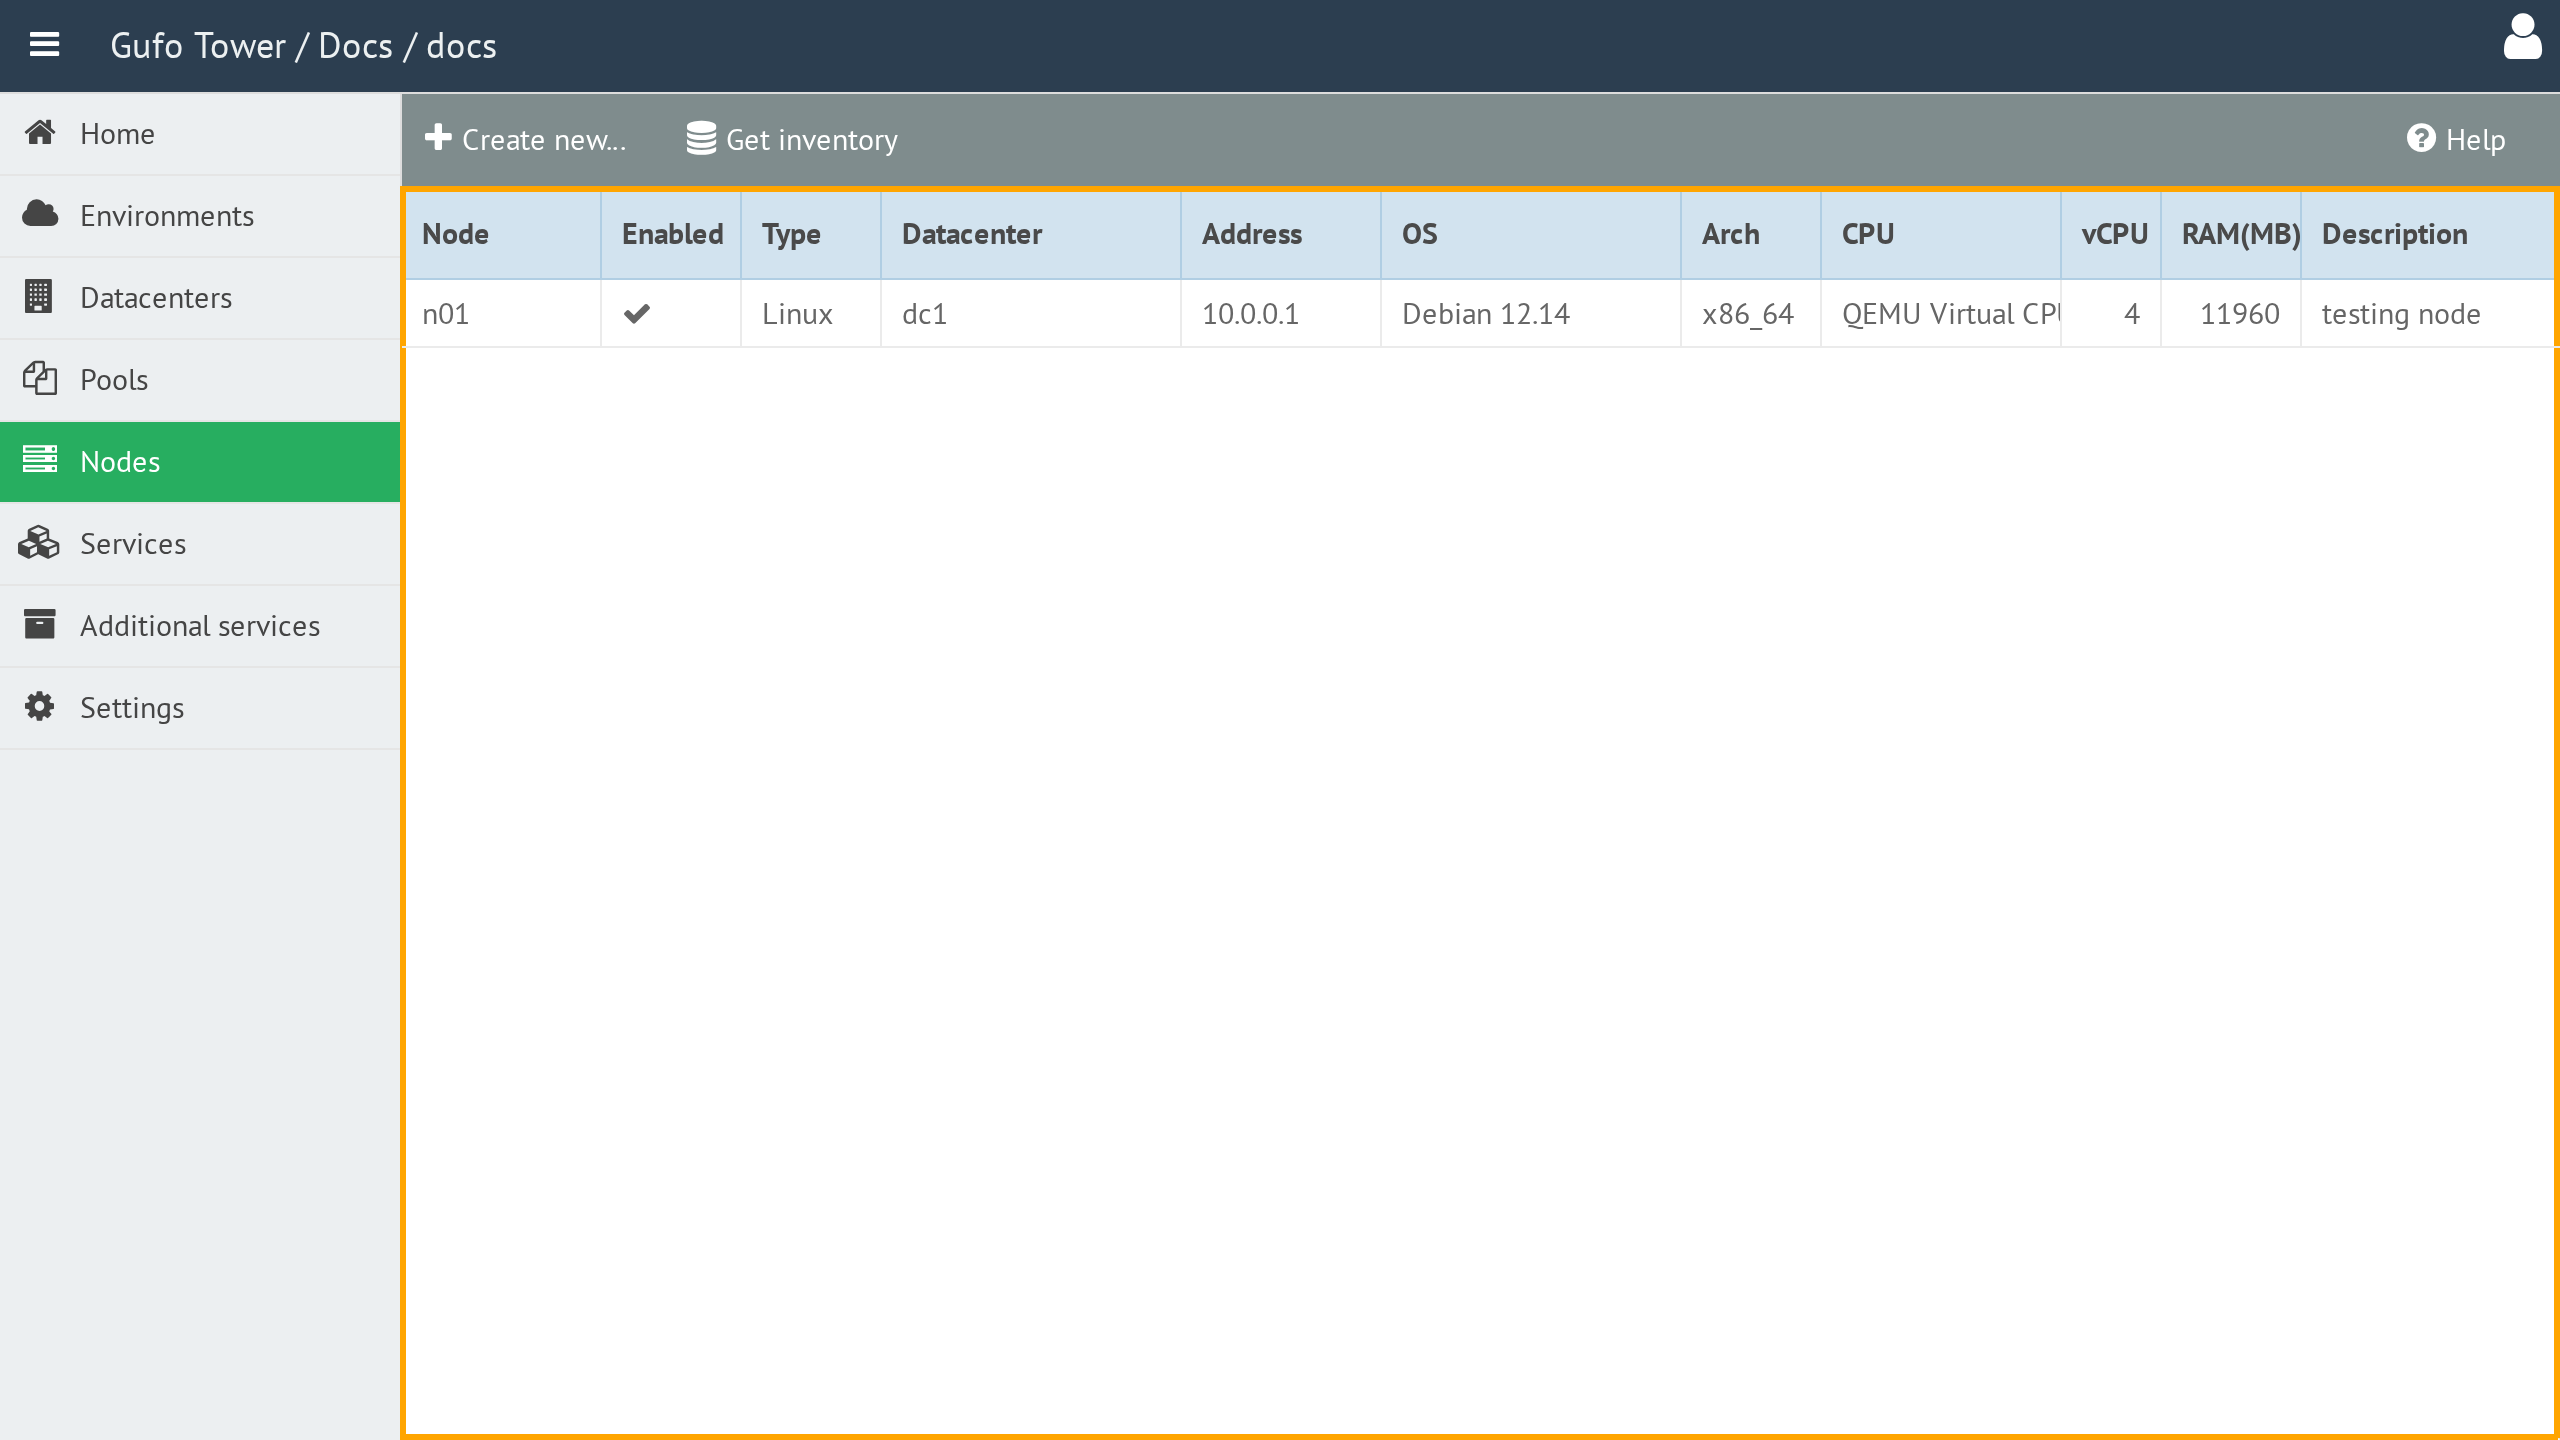
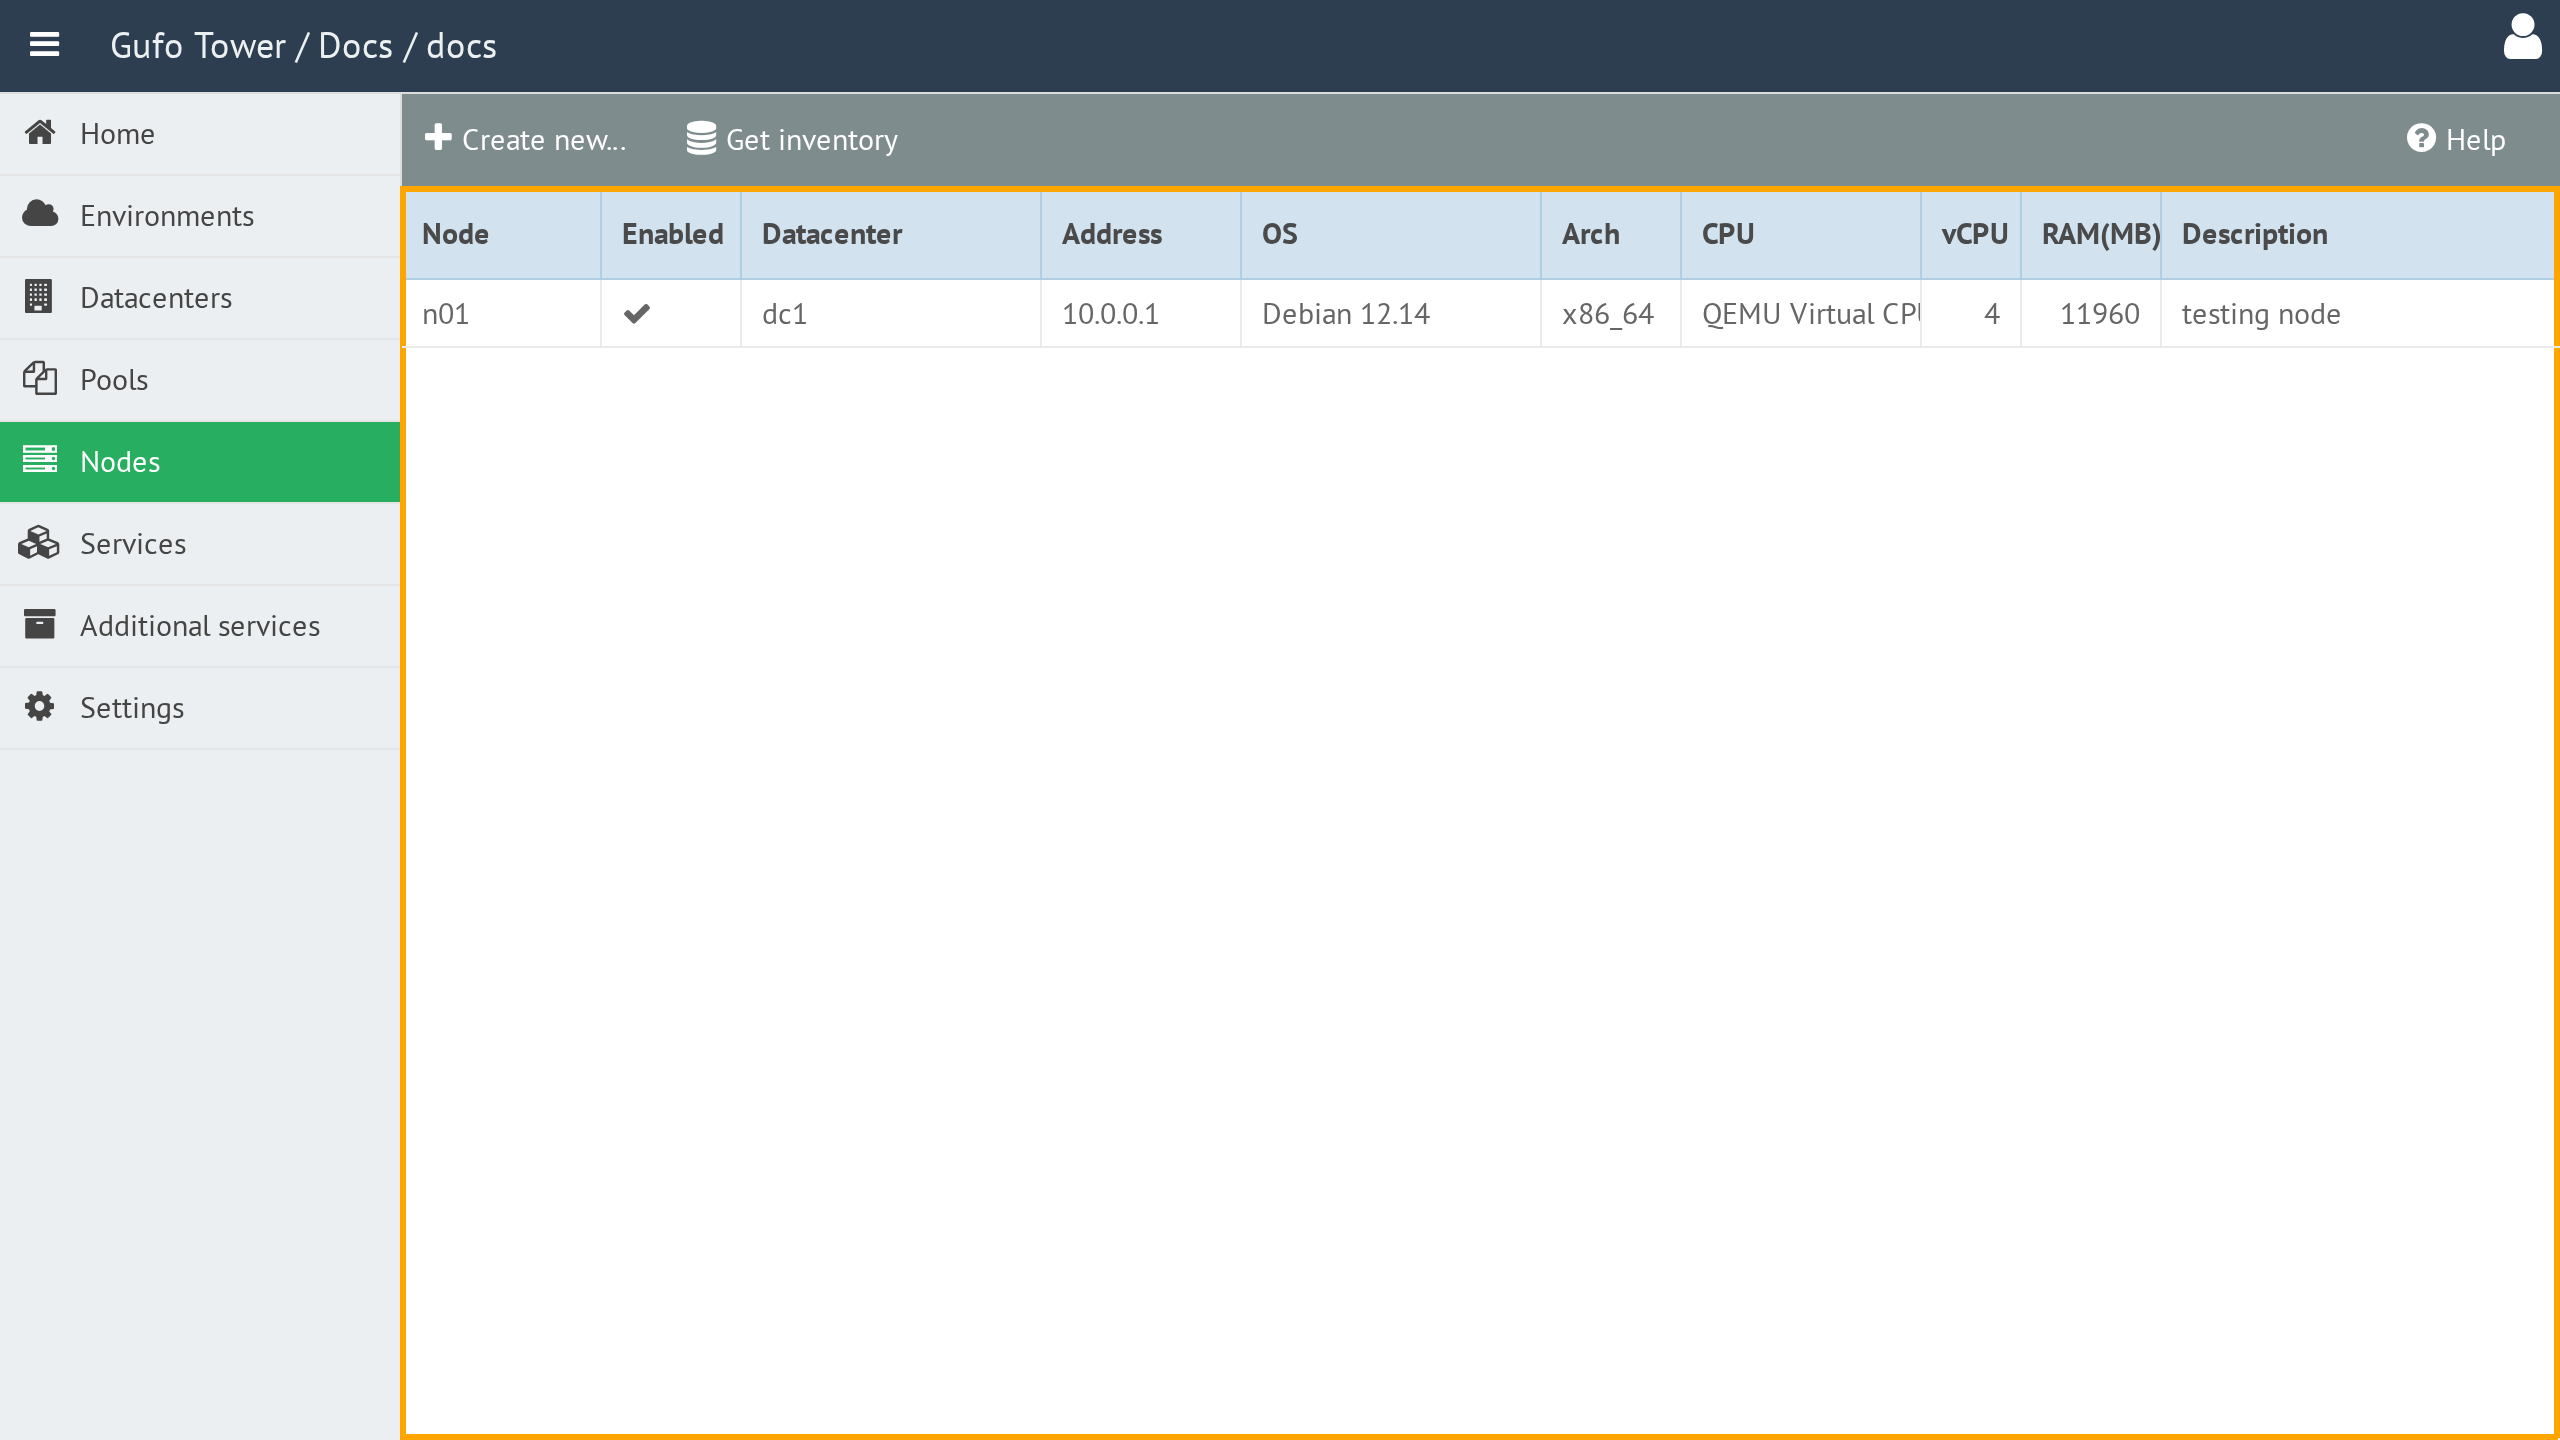
Update screenshots

diff --git a/docs/user-guide/node/list.md b/docs/user-guide/node/list.md
@@ -10,7 +10,6 @@ The list contains the following columns:
 | --- | --- |
 | **Node** | Node name. The name must be unique within the Datacenter. |
 | **Enabled** | Indicates whether the Node is enabled. Deployment is not performed on disabled Nodes. |
-| **Type** | Node type. See [Node Types](node-types.md) for details. |
 | **Datacenter** | Datacenter where the Node is located. See [Datacenters](../datacenter/index.md) for details. |
 | **Address** | Management address of the Node. This address is used by Gufo Tower to access the Node for deployment and for communication between Nodes. |
 | **OS** | Installed operating system. |

diff --git a/docs/user-guide/node/form.md b/docs/user-guide/node/form.md
@@ -28,11 +28,17 @@ A detailed, human-readable description of the Node.
 
 The type of the Node. See [Node Types](node-types.md) for details.
 
-## API Address
+## Address
 
 The IP address used to access the Node.
 
 This address is written to the `hosts` file and is used by Gufo Tower to access the Node for deployment and for communication between Nodes.
+
+## Port
+
+The SSH port used by Gufo Tower to access the Node for provisioning.
+
+The default port is 22.
 
 ## Login User
 
